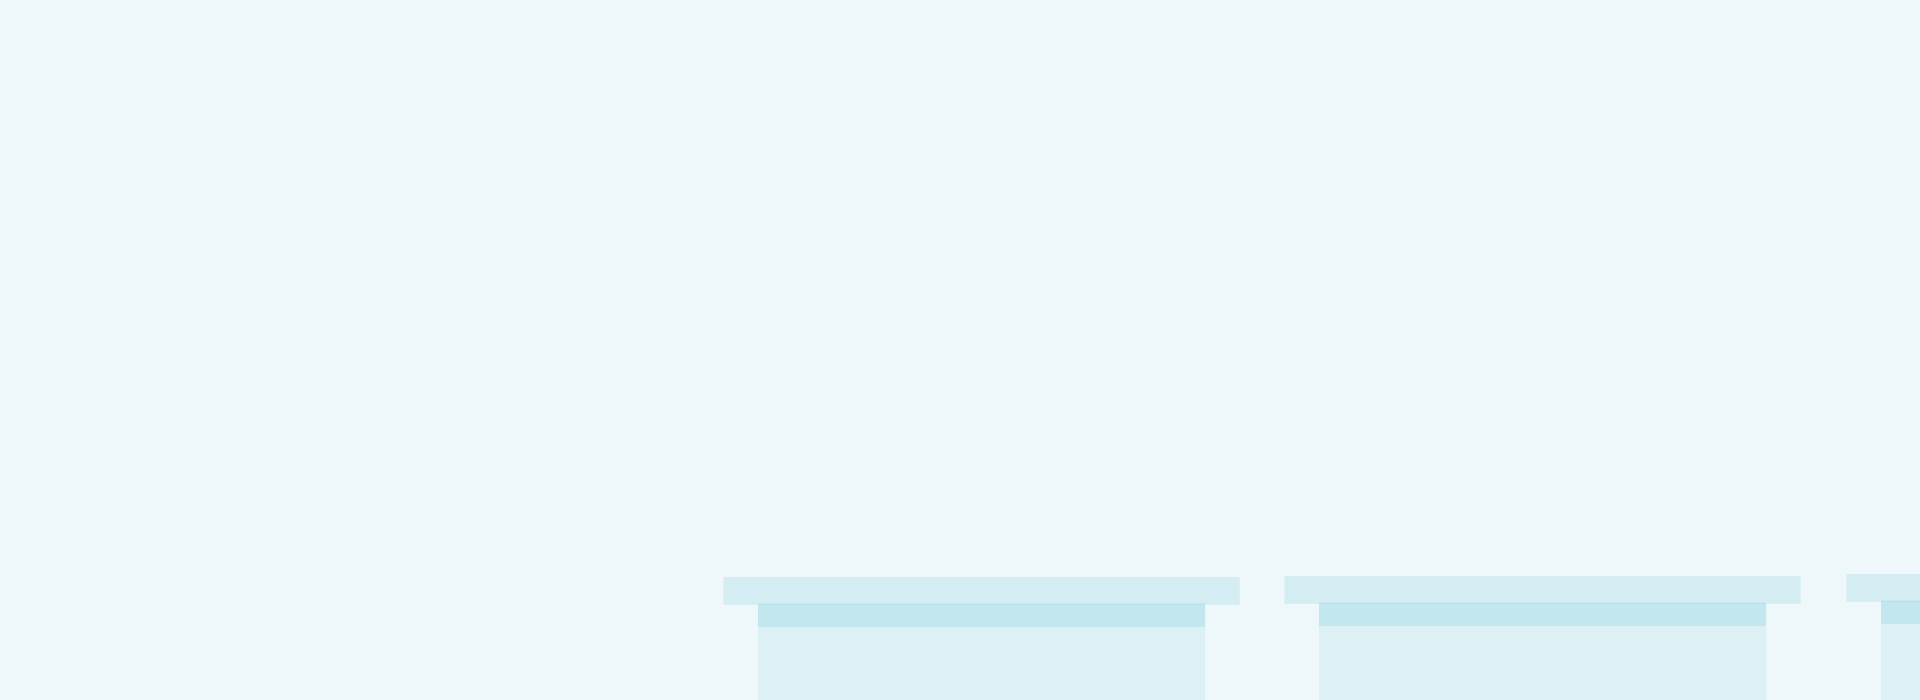
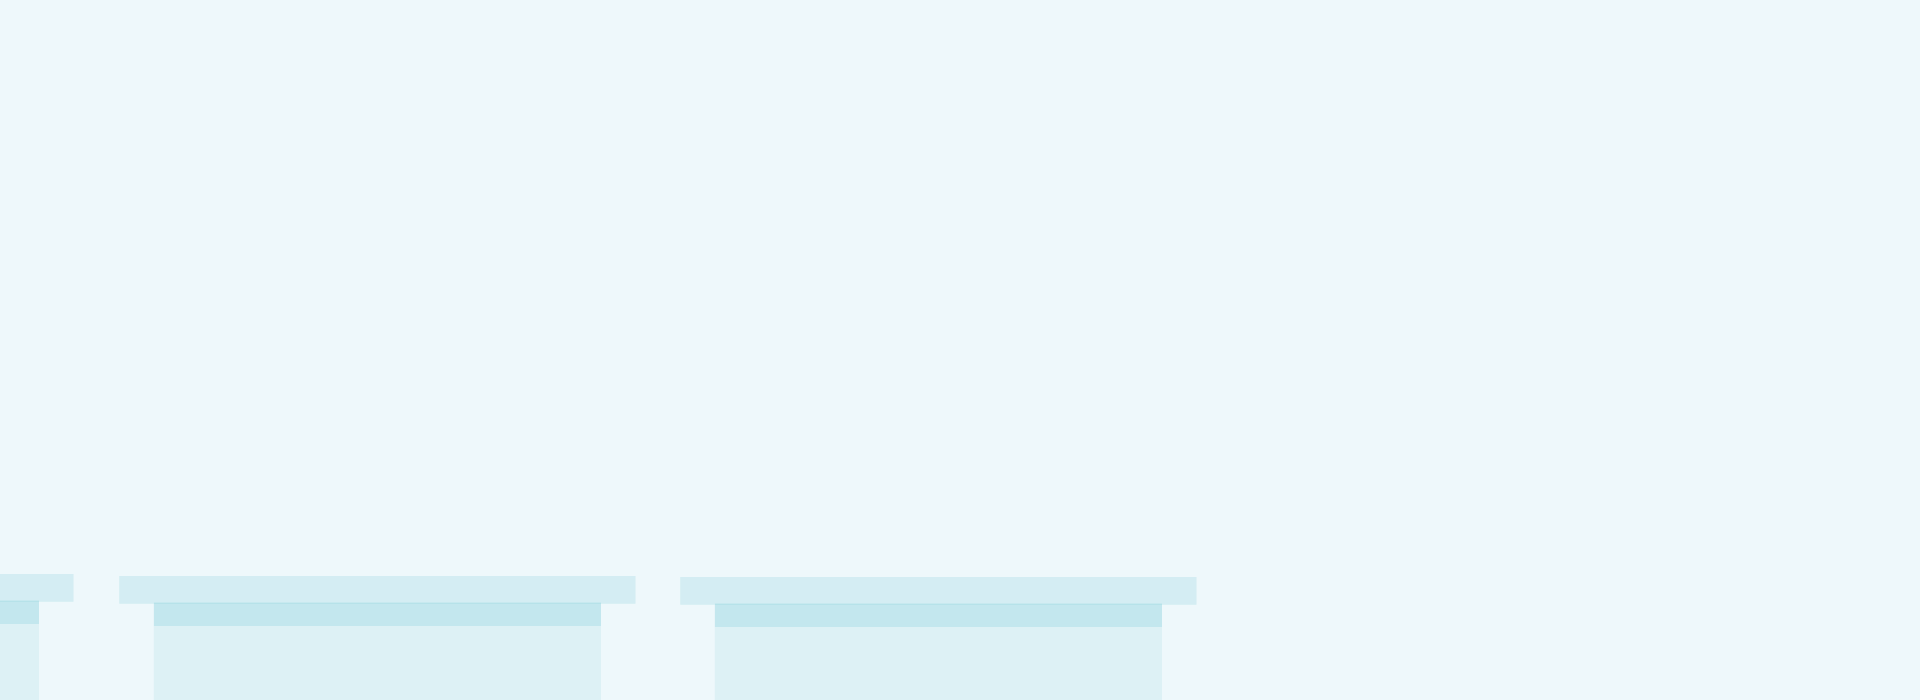
home page draft

Changed region(s): [[0.5938, 0.81, 1.0, 0.9], [0.0, 0.81, 0.4062, 0.9]]

diff --git a/app/assets/stylesheets/home.css.scss b/app/assets/stylesheets/home.css.scss
@@ -1,7 +1,12 @@
 @import "variables.css.scss";
 
 #home-banner {
-  height: 690px;
+  height: 100%;
+  min-height: 690px;
+}
+
+#footer-banner {
+  height: 700px;
 }
 
 #home-blurb {
@@ -49,105 +54,88 @@
 }
 
 #bg1-img {
-  width: 600px;
-  position: absolute;
-  left: 100px;
+  width: 200px;
+  z-index: 10;
+  left: 75px;
+}
+
+.bg1-begin {
+  position: absolute !important;
+  top: 790px;
+}
+
+.bg1-default {
+  position: fixed;
   bottom: 0;
 }
 
+.bg1-edit {
+  position: absolute !important;
+  bottom: 700px !important;
+}
+
 #thoughts-img {
-  width: 300px;
+  width: 450px;
   position: absolute;
-  left: 300px;
+  left: 250px;
   bottom: 200px;
 }
 
 .bg2 {
-  background: url(asset_path("bg2.png"));
+  background: url(asset_path("bg3.png"));
   background-size: cover;
   overflow: hidden;
   position: relative;
-  z-index: 2;
 }
 
 #bg2-img {
   width: 600px;
   position: absolute;
-  right: 50px;
+  left: 50px;
   bottom: 0;
-  z-index: 3;
-}
-
-#popup-img {
-  width: 200px;
-  position: absolute;
-  right: 400px;
-  bottom: 150px;
-  z-index: 2;
+  z-index: 11;
 }
 
 .bg3 {
-  background: url(asset_path("bg3.png"));
+  background: url(asset_path("bg2.png"));
   background-size: cover;
   position: relative;
-  z-index: 3;
 }
 
 #bg3-img {
-  width: 600px;
+  width: 650px;
   position: absolute;
   left: 50px;
   bottom: 0;
 }
 
-#sun-img {
-  width: 200px;
-  position: absolute;
-  left: 400px;
-  top: 50px;
-}
-
 .bg4 {
-  background: url(asset_path("bg4.png"));
+  background: url(asset_path("bg3.png"));
   background-size: cover;
   overflow: hidden;
   position: relative;
-  z-index: 4;
-}
-
-#bg4-img {
-  width: 400px;
-  position: absolute;
-  right: 250px;
-  bottom: 0px;
 }
 
 #rise-img {
-  right: 50px;
-  width: 500px;
+  left: 25px;
+  width: 700px;
   position: absolute;
-  top: 25px;;
+  bottom: 0;
+  z-index: 11;
 }
 
 .bg5 {
   background: url(asset_path("bg5.png"));
   background-size: cover;
   position: relative;
-  z-index: 5;
-}
-
-#bg5-img {
-  width: 450px;
-  position: absolute;
-  left: 220px;
-  bottom: 0px;
 }
 
 #student-img {
-  left: 0px;
+  left: 150px;
   width: 550px;
   position: absolute;
   bottom: 0px;
+  z-index: 11
 }
 
 .home-image {
@@ -189,19 +177,22 @@
   padding: 75px 40px 0 0;
 }
 
+#footer-banner .about-button {
+  margin-bottom: 15px;
+}
+
 @media (max-width: 1300px) {
   #bg1-img {
-    width: 500px;
+    width: 150px;
   }
 
   #thoughts-img {
     width: 250px;
-    left: 250px;
+    left: 200px;
   }
 
   #bg2-img {
-    width: 500px;
-    right: 0px;
+    width: 400px;
   }
 
   #popup-img {
@@ -211,7 +202,7 @@
   }
 
   #bg3-img {
-    width: 500px;
+    width: 420px;
   }
 
   #sun-img {
@@ -226,9 +217,8 @@
   }
 
   #rise-img {
-    width: 400px;
-    top: 100px;
-    right: 0px;
+    width: 500px;
+    bottom: 0;
   }
 
   #bg5-img {
@@ -244,11 +234,9 @@
     position: absolute;
     bottom: 0px;
   }
-}
 
-@media (max-width: 1200px) {
   #bg1-img {
-    width: 500px;
+    width: 150px;
     left: 50px;
   }
 
@@ -257,9 +245,9 @@
     left: 200px;
   }
 
-  #bg5-img {
-    left: 150px;
-    width: 340px;
+  #student-img {
+    left: 100px;
+    width: 400px;
   }
 }
 
@@ -267,17 +255,21 @@
   .home-text {
     width: 500px;
   }
+}
 
-  .bg1, .bg2, .bg3, .bg4, .bg5 {
-    height: auto;
-    padding-top: 15px;
-    padding-bottom: 50px;
+@media (max-width: 1000px) {
+  .home-text {
+    width: 450px;
   }
 }
 
 @media (max-width: 950px) {
   #bg1-img, #thoughts-img, #bg2-img, #popup-img, #bg3-img, #sun-img, #bg4-img, #rise-img, #bg5-img, #student-img {
     display: none;
+  }
+
+  .home-text {
+    width: 600px;
   }
 
   .home-text {
@@ -289,10 +281,15 @@
   .home-left {
     float: none;
   }
+
+  #home-banner, #footer-banner {
+    height: auto;
+    padding-bottom: 30px;
+  }
 }
 
 @media (max-width: 600px) {
-  #home-banner {
+  #home-banner, #footer-banner {
     height: auto;
   }
 
